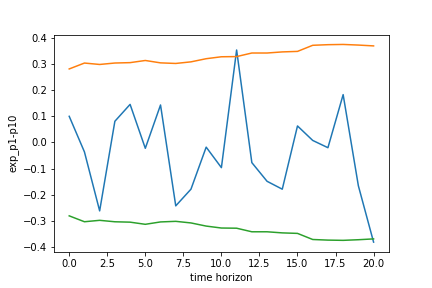
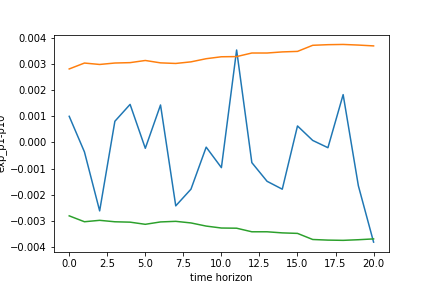
multiply shocks b y 100

diff --git a/analysis/7_LP_estimation.py b/analysis/7_LP_estimation.py
@@ -40,7 +40,7 @@ exp_90 = exp_90[:158]
 
 shock_series = pd.read_excel(
     "../original_data/Shocks_data/RR_MPshocks_Updated.xls", sheet_name="Sheet1"
-)
+)*100
 
 
 # shock_series = pd.concat(
